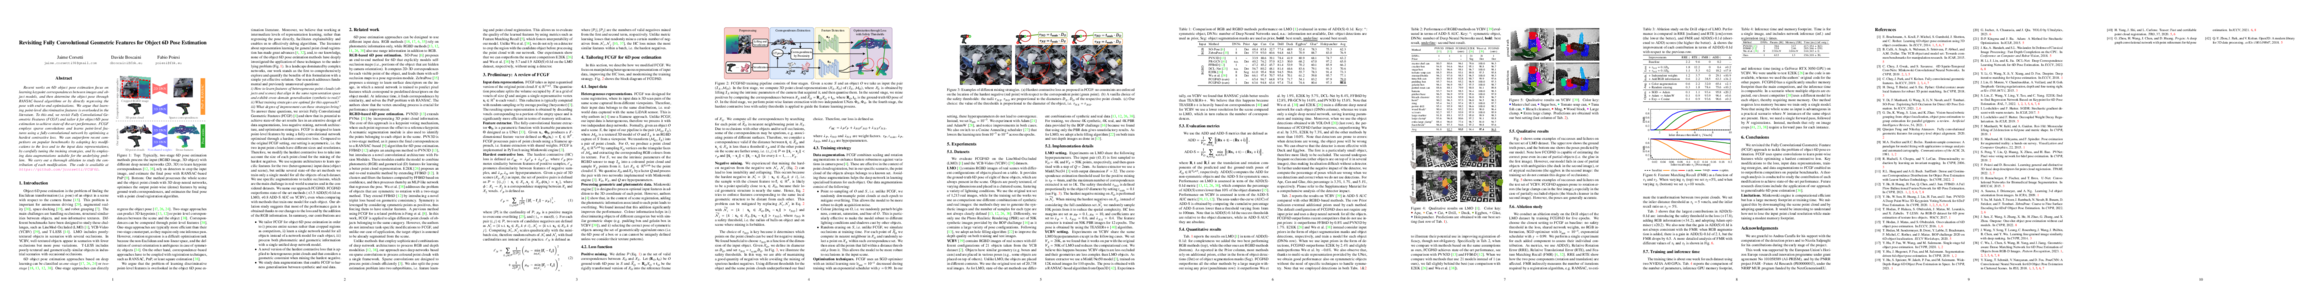
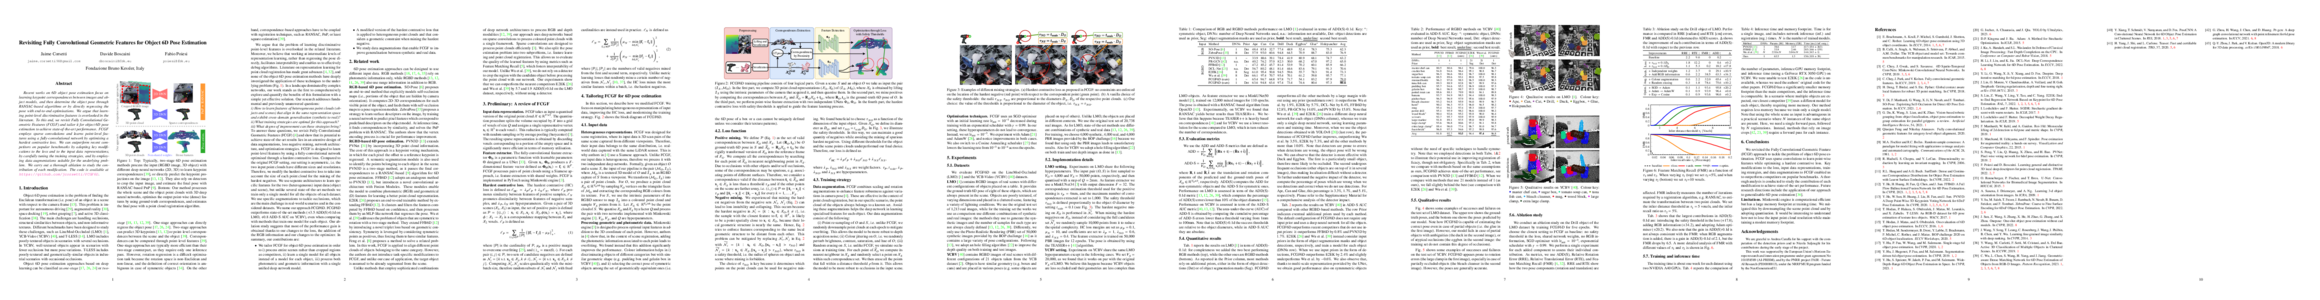
Updated papers

Changed region(s): [[0.0, 0.06, 0.8069, 0.9], [0.9, 0.09, 0.9931, 0.18], [0.8379, 0.81, 0.9, 0.9]]

diff --git a/publications.html b/publications.html
@@ -38,7 +38,7 @@
         <!-- BMVC 2023 -->
         <li class="list-group-item list-group-item-action">
           <figure class="figure">
-            <img src="data/thumb/2023_BMVC_DACA.png" class="figure-img img-fluid border rounded-0" alt="Paper thumbnail" style="max-height: 120px">
+            <img src="data/thumb/2023_BMVC_DACA.png" class="figure-img img-fluid border rounded-0" alt="Paper thumbnail" style="min-height:90px; max-height: 120px">
           </figure>
           <div class="d-flex w-100 justify-content-between" style="margin-top:-10px">
             <h5 class="mb-1">Detect, Augment, Compose, and Adapt: Four steps for unsupervised domain adaptation in object detection</h5>
@@ -54,7 +54,7 @@
         <!-- ICCV-W 2023 -->
         <li class="list-group-item list-group-item-action">
           <figure class="figure">
-            <img src="data/thumb/2023_ICCVW_FCGF6D.png" class="figure-img img-fluid border rounded-0" alt="Paper thumbnail" style="max-height: 120px">
+            <img src="data/thumb/2023_ICCVW_FCGF6D.png" class="figure-img img-fluid border rounded-0" alt="Paper thumbnail" style="min-height:90px; max-height: 120px">
           </figure>
           <div class="d-flex w-100 justify-content-between" style="margin-top:-10px">
             <h5 class="mb-1">Revisiting Fully Convolutional Geometric Features for object 6D pose estimation</h5>
@@ -79,9 +79,9 @@
           <p class="mb-1"><strong>Davide Boscaini</strong>, Fabio Poiesi</p>
           <p class="mb-1"><i>Image and Vision Computing (IMAVIS)</i>, 2023</p>
           <p class="mb-1"></p><font color="#899499">TLDR: Novel network design that is intrinsically effective in generalisation across datasets unseen at training time. 
-          Achieves SOTA classification performance on the GraspNetPC dataset in the transfer learning setting.</font></p>
+          Achieves SOTA classification performance on the GraspNetPC dataset in the transfer learning setting</font></p>
 
-          <a class="btn btn-primary btn-sm" href="https://authors.elsevier.com/a/1hWhnxnVKBF5J"><i class="fa fa-file-pdf-o" aria-hidden="true"></i>&nbsp;&nbsp;<strong>pdf</strong></a>
+          <a class="btn btn-primary btn-sm" href="https://www.sciencedirect.com/science/article/abs/pii/S0262885623001427"><i class="fa fa-file-pdf-o" aria-hidden="true"></i>&nbsp;&nbsp;<strong>pdf</strong></a>
           <a class="btn btn-primary btn-sm" href="https://arxiv.org/abs/2307.15692"><i class="ai ai-arxiv ai-1x"></i>&nbsp;&nbsp;<strong>arxiv</strong></a>
           <a class="btn btn-primary btn-sm" href="https://github.com/davideboscaini/PatchMixer"><i class="fa fa-github"></i>&nbsp;&nbsp;<strong>code</strong></a>
           <!-- <a class="badge text-bg-primary" href="https://drive.google.com/"><i class="fa fa-book" aria-hidden="true"></i>&nbsp;biblio</a> -->
@@ -115,20 +115,84 @@
             <p class="mb-1"><i>Multimodal Learning and Applications Workshop (MULA)</i>, 2023
               &mdash; <font color="#a21a2a">Held in conjunction with CVPR 2023</font></p>
           <!-- <p class="mb-1"></p><font color="#899499">TLDR:</font></p> -->
+
+          <!-- <a class="btn btn-primary btn-sm" href=""><i class="fa fa-file-pdf-o" aria-hidden="true"></i>&nbsp;<strong>pdf</strong></a> -->
+          <a class="btn btn-primary btn-sm" href="https://arxiv.org/abs/2304.05417"><i class="ai ai-arxiv ai-1x"></i>&nbsp;<strong>arxiv</strong></a>
+          <a class="btn btn-primary btn-sm" href="https://github.com/fabiopoiesi/monet_dataset"><i class="fa fa-github"></i>&nbsp;&nbsp;<strong>code</strong></a>
         </li>
 
-        <!-- PAMI 2022 -->
+        <!-- PAMI 2023 -->
         <li class="list-group-item list-group-item-action">
           <figure class="figure">
-            <img src="data/thumb/2022_PAMI_GeDi.png" class="figure-img img-fluid border rounded-0" alt="Paper thumbnail" style="min-height:90px; max-height:120px">
+            <img src="data/thumb/2023_PAMI_GeDi.png" class="figure-img img-fluid border rounded-0" alt="Paper thumbnail" style="min-height:90px; max-height:120px">
           </figure>
           <div class="d-flex w-100 justify-content-between" style="margin-top:-10px">
             <h5 class="mb-1">Learning general and distinctive 3D local deep descriptors for point cloud registration</h5>
           </div>
           <p class="mb-1">Fabio Poiesi, <strong>Davide Boscaini</strong></p>
-          <p class="mb-1"><i>Transactions on Pattern Analysis and Machine Intelligence (PAMI)</i>, 2022</p>
+          <p class="mb-1"><i>Transactions on Pattern Analysis and Machine Intelligence (PAMI)</i>, 2023</p>
           <p class="mb-1"></p><font color="#899499">TLDR: State-of-the-art performance for point cloud registration in the transfer learning setting across 3DMatch, ETH, and Kitti datasets</font></p>
+
+          <a class="btn btn-primary btn-sm" href="https://arxiv.org/abs/2105.10382"><i class="ai ai-arxiv ai-1x"></i>&nbsp;<strong>arxiv</strong></a>
+          <a class="btn btn-primary btn-sm" href="https://github.com/fabiopoiesi/gedi"><i class="fa fa-github"></i>&nbsp;&nbsp;<strong>code</strong></a>
         </li>
+
+        <!-- ICPR 2020 -->
+        <li class="list-group-item list-group-item-action">
+          <figure class="figure">
+            <img src="data/thumb/2020_ICPR_Puzzle.png" class="figure-img img-fluid border rounded-0" alt="Paper thumbnail" style="min-height:90px; max-height:120px">
+          </figure>
+          <div class="d-flex w-100 justify-content-between" style="margin-top:-10px">
+            <h5 class="mb-1">Joint supervised and self-supervised learning for 3D real-world challenges</h5>
+          </div>
+          <p class="mb-1">Antonio Alliegro, <strong>Davide Boscaini</strong>, Tatiana Tommasi</p>
+          <p class="mb-1"><i>International Conference on Pattern Recognition (ICPR)</i>, 2020
+            &mdash; <font color="#a21a2a">Oral presentation (4.4% acceptance rate)</font></p>
+          <!-- <p class="mb-1"></p><font color="#899499">TLDR: State-of-the-art performance for point cloud registration in the transfer learning setting across 3DMatch, ETH, and Kitti datasets</font></p> -->
+
+          <!-- <a class="btn btn-primary btn-sm" href="https://dl.acm.org/doi/abs/10.1007/978-3-030-68799-1_50"><i class="fa fa-file-pdf-o" aria-hidden="true"></i>&nbsp;<strong>pdf</strong></a> -->
+          <!-- <a class="btn btn-primary btn-sm" href="https://arxiv.org/abs/2105.10382"><i class="ai ai-arxiv ai-1x"></i>&nbsp;<strong>arxiv</strong></a> -->
+          <!-- <a class="btn btn-primary btn-sm" href="https://github.com/fabiopoiesi/gedi"><i class="fa fa-github"></i>&nbsp;&nbsp;<strong>code</strong></a> -->
+        </li>
+
+        <!-- ICPR 2020 -->
+        <li class="list-group-item list-group-item-action">
+          <figure class="figure">
+            <img src="data/thumb/2020_ICPR_DIP.png" class="figure-img img-fluid border rounded-0" alt="Paper thumbnail" style="min-height:90px; max-height:120px">
+          </figure>
+          <div class="d-flex w-100 justify-content-between" style="margin-top:-10px">
+            <h5 class="mb-1">Distinctive 3D local deep descriptors</h5>
+          </div>
+          <p class="mb-1">Fabio Poiesi, <strong>Davide Boscaini</strong></p>
+          <p class="mb-1"><i>International Conference on Pattern Recognition (ICPR)</i>, 2020</p>
+          <!-- <p class="mb-1"></p><font color="#899499">TLDR: State-of-the-art performance for point cloud registration in the transfer learning setting across 3DMatch, ETH, and Kitti datasets</font></p> -->
+
+          <!-- <a class="btn btn-primary btn-sm" href="https://dl.acm.org/doi/abs/10.1007/978-3-030-68799-1_50"><i class="fa fa-file-pdf-o" aria-hidden="true"></i>&nbsp;<strong>pdf</strong></a> -->
+          <!-- <a class="btn btn-primary btn-sm" href="https://arxiv.org/abs/2105.10382"><i class="ai ai-arxiv ai-1x"></i>&nbsp;<strong>arxiv</strong></a> -->
+          <!-- <a class="btn btn-primary btn-sm" href="https://github.com/fabiopoiesi/gedi"><i class="fa fa-github"></i>&nbsp;&nbsp;<strong>code</strong></a> -->
+        </li>
+
+        <!-- ICPR-W 2020 -->
+        <li class="list-group-item list-group-item-action">
+          <figure class="figure">
+            <img src="data/thumb/2020_ICPRW.png" class="figure-img img-fluid border rounded-0" alt="Paper thumbnail" style="min-height:90px; max-height:120px">
+          </figure>
+          <div class="d-flex w-100 justify-content-between" style="margin-top:-10px">
+            <h5 class="mb-1">Localisation of defects in volumetric CT scans of valuable wood logs</h5>
+          </div>
+          <p class="mb-1"><strong>Davide Boscaini</strong>, Fabio Poiesi, Stefano Messelodi, Ayman Younes, Donato Grande</p>
+          <p class="mb-1"><i>International Workshop on Industrial Machine Learning (IML)</i>, 2020
+            &mdash; <font color="#a21a2a">Held in conjunction with ICPR 2020, Oral presentation</font></p>
+          <!-- <p class="mb-1"></p><font color="#899499">TLDR: State-of-the-art performance for point cloud registration in the transfer learning setting across 3DMatch, ETH, and Kitti datasets</font></p> -->
+
+          <a class="btn btn-primary btn-sm" href="https://dl.acm.org/doi/abs/10.1007/978-3-030-68799-1_50"><i class="fa fa-file-pdf-o" aria-hidden="true"></i>&nbsp;<strong>pdf</strong></a>
+          <!-- <a class="btn btn-primary btn-sm" href="https://arxiv.org/abs/2105.10382"><i class="ai ai-arxiv ai-1x"></i>&nbsp;<strong>arxiv</strong></a> -->
+          <!-- <a class="btn btn-primary btn-sm" href="https://github.com/fabiopoiesi/gedi"><i class="fa fa-github"></i>&nbsp;&nbsp;<strong>code</strong></a> -->
+        </li>
+
+        <!--
+          DA COMPLETARE
+        -->
 
         <!-- Nature Methods 2020 -->
         <li class="list-group-item list-group-item-action">
